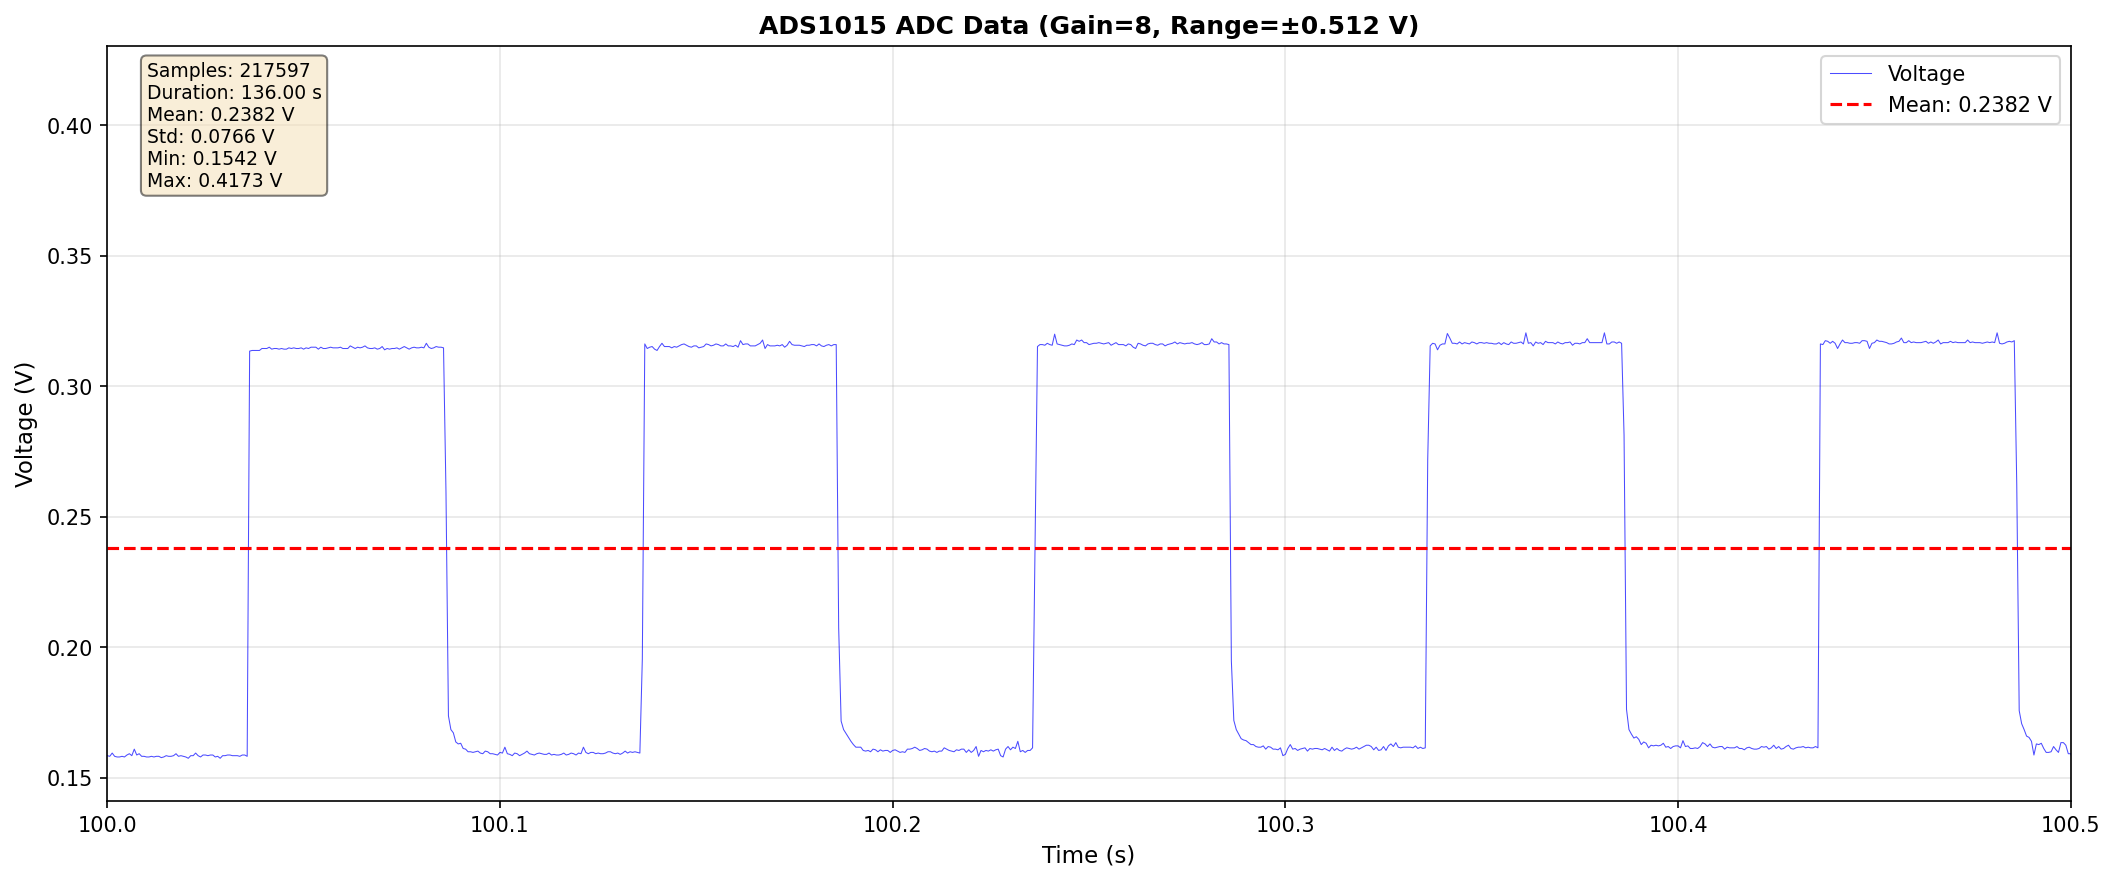
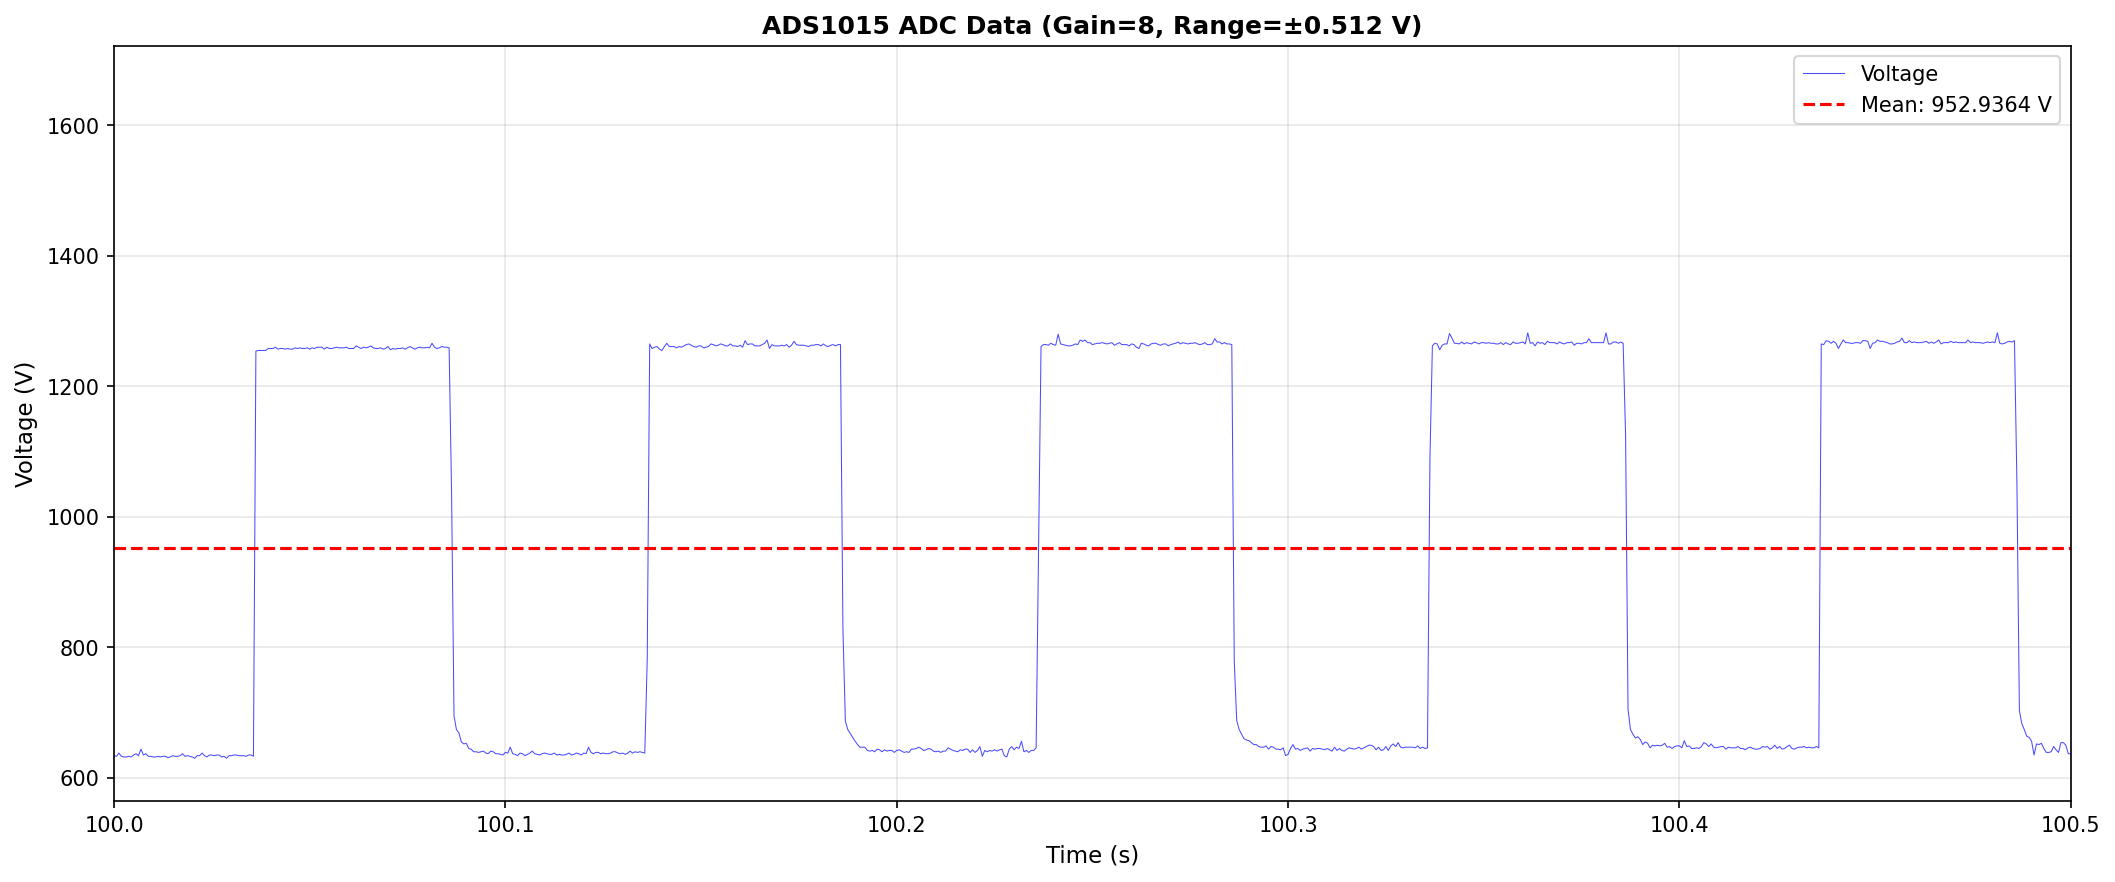
refactor: Updated ADS plots to show raw values.

diff --git a/plot_ADS_data.py b/plot_ADS_data.py
@@ -99,7 +99,7 @@ def plot_ads_data(ads_file, output_dir, gain=8):
     time_s = (timestamps - timestamps[0]) / 1e6
     
     # Convert to voltage
-    voltages = convert_to_voltage(values, gain)
+    voltages = values
     
     # Calculate statistics
     mean_voltage = np.mean(voltages)
@@ -134,9 +134,9 @@ def plot_ads_data(ads_file, output_dir, gain=8):
     stats_text += f'Min: {min_voltage:.4f} V\n'
     stats_text += f'Max: {max_voltage:.4f} V'
     
-    ax.text(0.02, 0.98, stats_text, transform=ax.transAxes,
-            fontsize=9, verticalalignment='top',
-            bbox=dict(boxstyle='round', facecolor='wheat', alpha=0.5))
+    #ax.text(0.02, 0.98, stats_text, transform=ax.transAxes,
+    #        fontsize=9, verticalalignment='top',
+    #        bbox=dict(boxstyle='round', facecolor='wheat', alpha=0.5))
     
     plt.tight_layout()
     plt.xlim(100, 100.5) 
